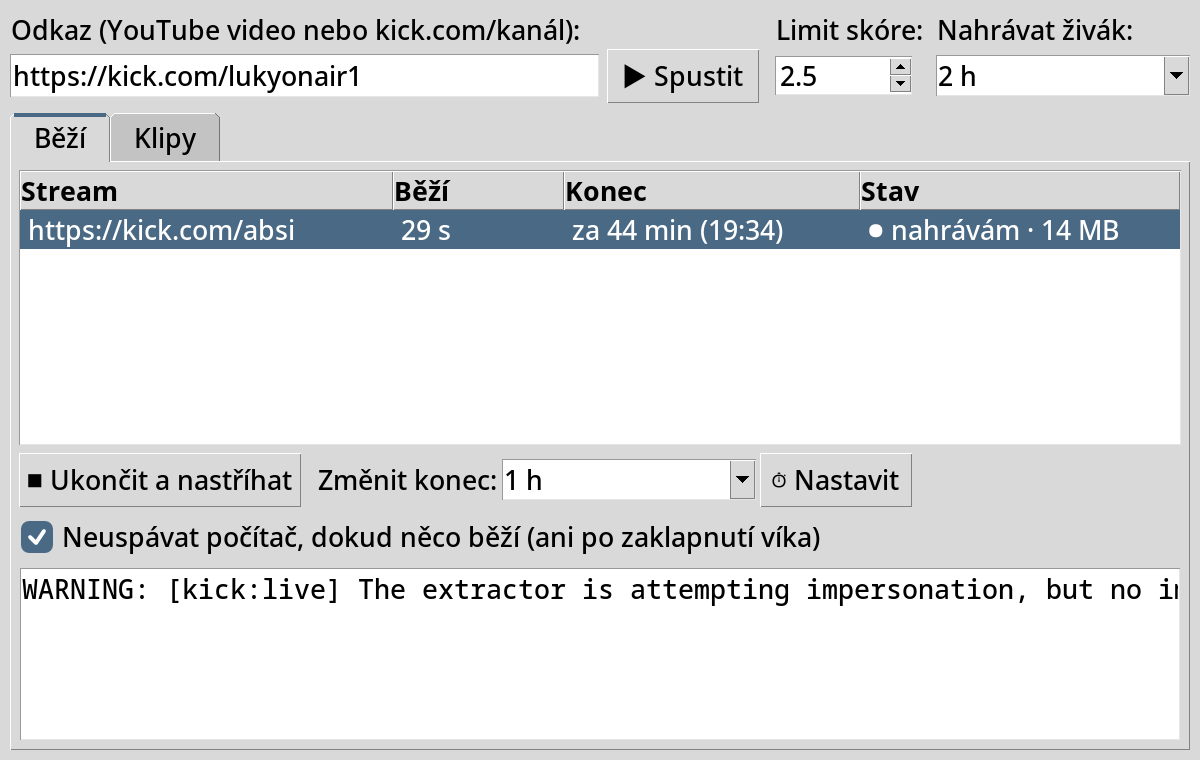
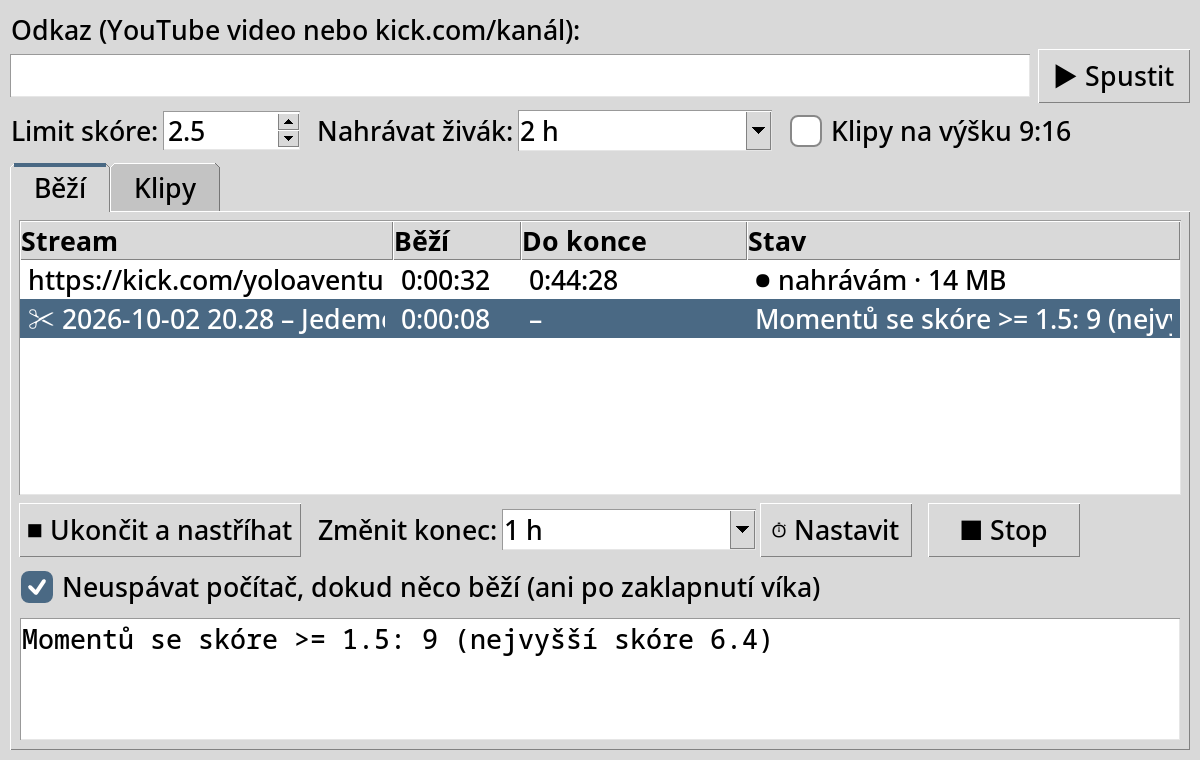
README: nová dokumentace a screenshoty aktuálního okna
- Rychlý start, popis okna po kartách, typický postup, terminál, výstup, omezení
- Nové screenshoty: karta Běží (odpočet Do konce, Stop u přestříhání),
  karta Klipy (zdrojové video + klipy), dialog Přepočítat skóre

diff --git a/README.md b/README.md
@@ -1,23 +1,29 @@
 # ClipFarm
 
 Automatické highlight klipy ze streamů. Vložíš odkaz na YouTube video nebo živý stream z Kicku, ClipFarm ho
-stáhne (nebo nahrává), podle chatu a zvuku najde nejlepší momenty a nastříhá z nich klipy. Funguje na Linuxu,
-Windows i macOS, ovládá se z jednoho okna.
+stáhne (nebo nahrává), podle reakcí chatu a hlasitosti najde nejlepší momenty a nastříhá z nich klipy – na šířku,
+nebo na výšku pro Shorts a TikTok. Funguje na Linuxu, Windows i macOS a ovládá se z jednoho okna.
 
-![Karta Běží: nahrávání živého streamu s časovačem](docs/ui-bezi.png)
+![Karta Klipy: streamy podle streamera, zdrojové video a klipy s časem, délkou a skóre](docs/ui-klipy.png)
 
-![Karta Klipy: streamy podle streamera, klipy s časem, délkou a skóre](docs/ui-klipy.png)
+## Rychlý start
+
+1. **Nainstaluj** (jednou): Linux `bash instalace-linux.sh`, Windows dvojklik na `instalace-windows.bat`,
+   macOS dvojklik na `instalace-macos.command`. Podrobnosti v [Instalace](#instalace).
+2. **Otevři ClipFarm** z nabídky aplikací (Linux), plochy / nabídky Start (Windows) nebo Launchpadu (macOS).
+3. **Vlož odkaz** – YouTube video nebo `https://kick.com/<kanál>` – a zmáčkni **▶ Spustit**.
+4. Hotové klipy najdeš v kartě **Klipy**, dvojklik je přehraje.
 
 ## Co umí
 
 - **YouTube** video nebo záznam streamu: stáhne video (max. 720p) i záznam chatu, pokud existuje.
-- **Kick** živý stream (`https://kick.com/<kanál>`): nahrává video i chat, dokud stream neskončí,
-  nebo po nastavenou dobu (časovač), nebo dokud nezmáčkneš **Ukončit a nastříhat**.
-- **Výběr momentů** podle reakce chatu (spam jednoho člověka se nepočítá) a hlasitosti, viz níž.
+- **Kick** živý stream: nahrává video i chat, dokud stream neskončí, nebo po nastavenou dobu (časovač),
+  nebo dokud nezmáčkneš **Ukončit a nastříhat**. Nahrávání běží dál i po zavření okna.
+- **Výběr momentů** podle reakce chatu (spam jednoho člověka se nepočítá) a hlasitosti – viz
+  [Jak vybírá momenty](#jak-vybírá-momenty).
 - **Klipy** začínají na střihu scény nebo v pauze mezi slovy a končí, až reakce opadne (typicky 20–60 s).
   Na šířku 16:9, nebo **na výšku 9:16** (Shorts, TikTok, Reels) s rozmazaným pozadím.
-- **Okno** na všechno: spuštění, přehled běžících nahrávání s odpočtem, časovač, přehrání klipu nebo
-  zdrojového videa, přepočet skóre, přestříhání s jiným limitem, mazání. Nahrávání běží dál i po zavření okna.
+- **Přepočet skóre a přestříhání** už staženého streamu s jiným limitem nebo formátem, bez nového stahování.
 - **Neuspává počítač**, dokud něco běží (na Linuxu i po zaklapnutí víka).
 - **Prohlížení v prohlížeči** přes vestavěný server `http://127.0.0.1:8765/`, který funguje i s prohlížečem
   ve Flatpaku nebo po přesunutí složky.
@@ -25,8 +31,8 @@ Windows i macOS, ovládá se z jednoho okna.
 ## Instalace
 
 Potřebuje Python 3.12+, [yt-dlp](https://github.com/yt-dlp/yt-dlp), ffmpeg a Node.js (yt-dlp ho používá
-na YouTube). Instalační skripty doinstalují, co chybí, a spustí ClipFarm. Ten si při prvním spuštění vytvoří
-ikonu.
+na YouTube). Instalační skripty doinstalují jen to, co chybí, a spustí ClipFarm. Ten si při prvním spuštění
+vytvoří ikonu.
 
 | Systém | Instalace | Kde je pak ikona |
 |---|---|---|
@@ -36,33 +42,50 @@ ikonu.
 
 Po přesunutí složky spusť `ClipFarm.py` jednou ručně, ať ikona ukazuje na nové místo.
 
-## Použití
+## Okno
 
-### Okno (`ClipFarm.py`)
+**Nahoře** je pole pro odkaz a **▶ Spustit**. Pod ním nastavení, které platí pro spuštění i pro přestříhání:
 
-**Nahoře:** odkaz a **▶ Spustit**. Pod tím nastavení pro spuštění i přestříhání: **Limit skóre** (jak výrazný
-musí moment být, výchozí 2,5), **Nahrávat živák** („dokud neskončí“, 30 min, 2 h… nebo vlastní, třeba
-`1 h 30 min`) a **Klipy na výšku 9:16**.
+- **Limit skóre** – jak výrazný musí moment být, aby z něj vznikl klip (výchozí 2,5; víc = méně a lepších klipů),
+- **Nahrávat živák** – „dokud neskončí“, 30 min, 2 h… nebo vlastní, třeba `1 h 30 min`,
+- **Klipy na výšku 9:16** – pro Shorts, TikTok a Reels.
 
-**Karta Běží**
+### Karta Běží
 
-- všechno, co běží (i spuštěné z terminálu): jak dlouho, **odpočet do konce** nahrávání, kolik je nahráno,
-- **⏹ Ukončit a nastříhat**: ukončí nahrávání živáku a hned nastříhá, co je nahrané,
-- **Změnit konec** + **⏱ Nastavit**: časovač i u nahrávání, které už běží,
-- **■ Stop**: objeví se jen u vybraného přestříhání nebo přepočtu skóre a zastaví ho (hotové klipy zůstanou),
-- **Neuspávat počítač** a log vybrané úlohy.
+![Karta Běží: nahrávání živáku s odpočtem do konce a vybrané přestříhání s tlačítkem Stop](docs/ui-bezi.png)
 
-**Karta Klipy**
+- Všechno, co běží – i spuštěné z terminálu: jak dlouho, **odpočet do konce** nahrávání, kolik je nahráno.
+- **⏹ Ukončit a nastříhat** – ukončí nahrávání živáku a hned nastříhá, co je nahrané.
+- **Změnit konec** + **⏱ Nastavit** – časovač i u nahrávání, které už běží (prodloužit, zkrátit, „dokud
+  neskončí“).
+- **■ Stop** – objeví se jen u vybraného přestříhání nebo přepočtu skóre a zastaví ho; hotové klipy zůstanou.
+- **Neuspávat počítač** a dole log vybrané úlohy.
 
-- streamer → stream → zdrojové video (`stream.mp4`) a klipy (čas ve streamu, délka, skóre); vidět je každá
-  složka s videem, i nedokončená nebo bez klipů; dvojklik přehraje,
-- **✂ Přestříhat**: znovu nastříhá stream s aktuálním limitem a formátem bez stahování (použije i uložený
-  chat); staré klipy se nahradí, až budou nové hotové,
-- **Σ Přepočítat skóre**: nic nestříhá, jen ukáže, kolik klipů by dal který limit, a přepočítá skóre
-  současných klipů na aktuální stupnici,
-- **Složka**, **V prohlížeči**, **Smazat zdroj** (uvolní místo, klipy zůstanou), **Smazat**.
+### Karta Klipy
 
-### Terminál (`Klipy.py`)
+- Streamer → stream → **zdrojové video** (`stream.mp4`) a **klipy** s časem ve streamu, délkou a skóre.
+  Vidět je každá složka s videem, i nedokončená nebo bez klipů. Dvojklik přehraje.
+- **✂ Přestříhat** – znovu nastříhá stream s aktuálním limitem a formátem, bez stahování (použije uložený
+  chat). Staré klipy se nahradí, až budou nové hotové.
+- **Σ Přepočítat skóre** – nic nestříhá, jen ukáže, kolik klipů by dal který limit, a přepočítá skóre
+  současných klipů na aktuální stupnici:
+
+  ![Výsledek Přepočítat skóre: nejvyšší skóre a kolik klipů by vzniklo při každém limitu](docs/ui-skore.png)
+
+- **Složka**, **V prohlížeči**, **Smazat zdroj** (uvolní místo, klipy zůstanou, ale stream už nepůjde
+  přestříhat), **Smazat** (klip nebo celý stream).
+
+### Typický postup
+
+1. Živák: vlož `https://kick.com/<kanál>`, nastav **Nahrávat živák** (třeba 3 h) a **▶ Spustit**. Můžeš
+   odejít – po čase nebo s koncem streamu se klipy nastříhají samy.
+2. Málo nebo moc klipů? V kartě Klipy vyber stream → **Σ Přepočítat skóre** → podle tabulky nastav nahoře
+   **Limit skóre** → **✂ Přestříhat**.
+3. Na TikTok: zaškrtni **Klipy na výšku 9:16** a dej **✂ Přestříhat**.
+
+## Terminál
+
+Všechno jde i bez okna přes `Klipy.py`:
 
 ```bash
 python3 Klipy.py <odkaz | složka streamu> [limit skóre] [minuty nahrávání živáku]
@@ -76,21 +99,22 @@ CLIPFARM_VERTICAL=1 python3 Klipy.py "https://…"                    # klipy na
 
 Ctrl+C během nahrávání = ukončit a nastříhat, co je nahrané.
 
-### Co vznikne
+## Co vznikne
 
 ```
 klipy/
 ├── index.html                          ← přehled všech streamů
-├── _logy/                              ← logy a stav běžících nahrávání (pro okno)
+├── _logy/                              ← logy a stav běžících úloh (pro okno)
 └── <kanál>/<datum [čas] – název>/
     ├── 01.mp4, 02.mp4, …               ← klipy
     ├── index.html                      ← stránka streamu s klipy
-    ├── klipy.json, info.json           ← data pro okno a přestříhání
+    ├── klipy.json, info.json           ← data pro okno, přestříhání a přepočet skóre
     ├── stream.mp4                      ← zdrojové video (dá se smazat, pak už nejde přestříhat)
     └── stream.live_chat.json           ← chat (YouTube záznam nebo nahraný Kick chat)
 ```
 
-Složka `klipy/` je vždy vedle `Klipy.py`, ať ho spustíš odkudkoli.
+Složka `klipy/` je vždy vedle `Klipy.py`, ať ho spustíš odkudkoli. Vlastní video jde zpracovat taky: dej ho do
+`klipy/<kanál>/<datum – název>/stream.mp4` a v okně dej **✂ Přestříhat**.
 
 ## Jak vybírá momenty
 
@@ -115,8 +139,8 @@ Všechny hodnoty jsou konstanty nahoře v `Klipy.py` (`MIN_SCORE`, `GAP`, `AROUN
 
 - **VODy na Kicku** jsou často jen pro předplatitele a stáhnout nejdou. Živý stream je veřejný, proto
   ClipFarm nahrává živě (od chvíle spuštění, ne od začátku streamu).
-- **Bez chatu** (YouTube reuploady, nesestříhaná videa) rozhoduje jen zvuk a výsledky jsou slabší; pro taková
-  videa limit sniž (např. 1,5).
+- **Bez chatu** (YouTube reuploady, nahraná videa) rozhoduje jen zvuk a výsledky jsou slabší; pro taková
+  videa limit sniž (např. 1,5) – správnou hodnotu ukáže **Σ Přepočítat skóre**.
 - **Prolínačka mezi scénami bez ztišení** se pozná jen podle obrazu, ne vždy. Výpadek streamu (BRB obrazovka)
   s „???“ v chatu může vypadat jako reakce.
 - **Zaklapnutí víka:** na Windows ho řídí Nastavení napájení („Při zavření víka: Nic nedělat“), na macOS
@@ -127,8 +151,8 @@ Všechny hodnoty jsou konstanty nahoře v `Klipy.py` (`MIN_SCORE`, `GAP`, `AROUN
 ## Vývoj
 
 ```bash
-python3 Klipy.py --test       # self-check výběru momentů, hranic klipů, chatu, časovače, záchrany nahrávky
-python3 ClipFarm.py --test    # self-check okna: stav nahrávání, časovač, mazání, webový server
+python3 Klipy.py --test       # self-check: momenty, hranice klipů, chat, časovač, záchrana nahrávky, 9:16
+python3 ClipFarm.py --test    # self-check okna: stav úloh, časovač, Stop, mazání, seznam videí, webový server
 ```
 
 Bez závislostí mimo standardní knihovnu Pythonu (yt-dlp a ffmpeg se volají jako programy, Kick chat přes
